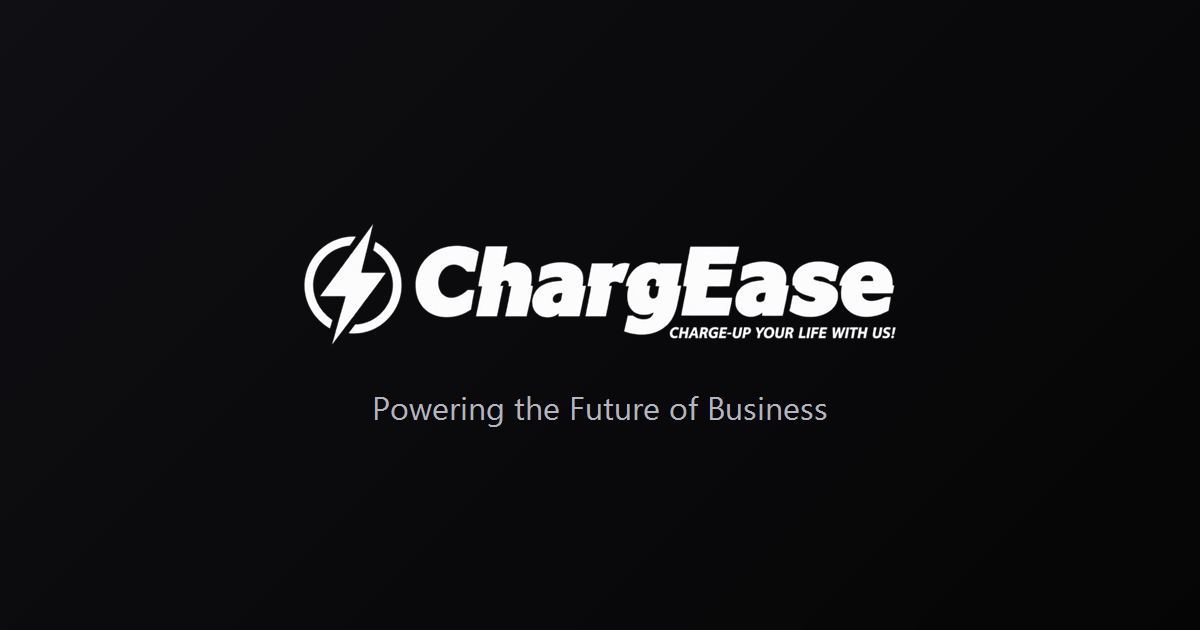
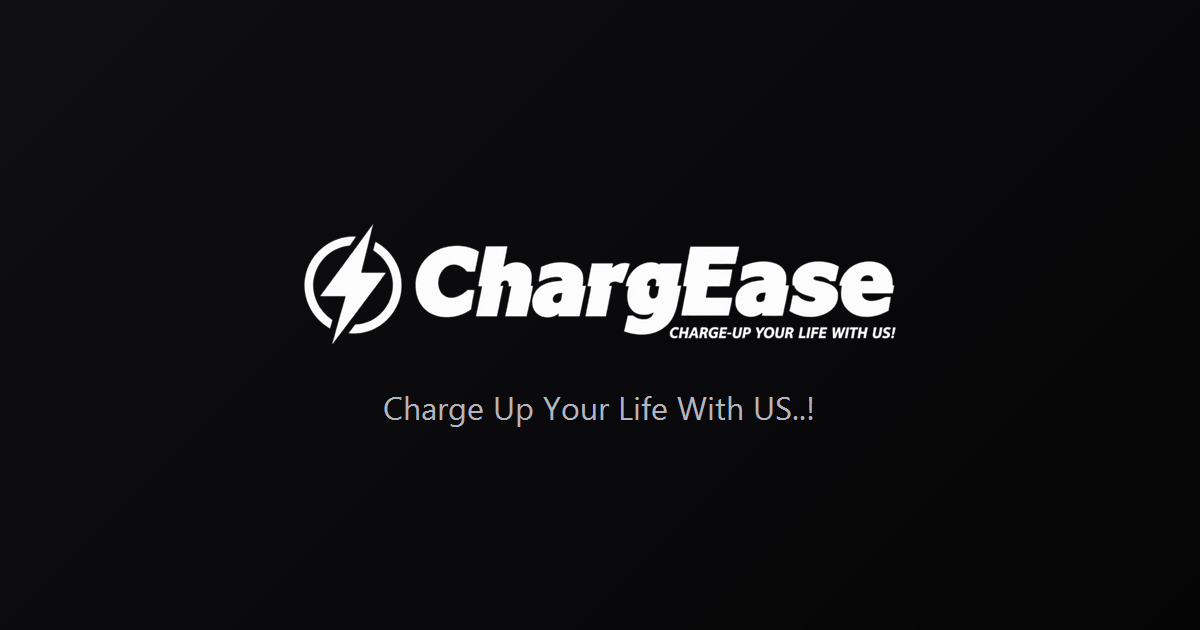
Update tagline to Charge Up Your Life With US..! across layout, footer, og-image, and admin

Changed region(s): [[0.3083, 0.6333, 0.7092, 0.6937]]

diff --git a/frontend/src/app/layout.tsx b/frontend/src/app/layout.tsx
@@ -9,7 +9,7 @@ const inter = Inter({ subsets: ['latin'], variable: '--font-inter', display: 'sw
 
 export const metadata: Metadata = {
   metadataBase: new URL('https://www.chargease.in'),
-  title: 'ChargEase — Powering the Future of Business',
+  title: 'ChargEase — Charge Up Your Life With US..!',
   description: 'ChargEase delivers cutting-edge solutions that transform industries and accelerate growth through innovation, precision, and excellence.',
   keywords: ['ChargEase', 'business solutions', 'consulting', 'innovation', 'digital transformation'],
   authors: [{ name: 'ChargEase' }],
@@ -17,7 +17,7 @@ export const metadata: Metadata = {
     type: 'website',
     locale: 'en_US',
     url: 'https://www.chargease.in',
-    title: 'ChargEase — Powering the Future of Business',
+    title: 'ChargEase — Charge Up Your Life With US..!',
     description: 'ChargEase delivers cutting-edge solutions that transform industries and accelerate growth.',
     siteName: 'ChargEase',
     images: [
@@ -25,13 +25,13 @@ export const metadata: Metadata = {
         url: '/og-image.png',
         width: 1200,
         height: 630,
-        alt: 'ChargEase — Powering the Future of Business',
+        alt: 'ChargEase — Charge Up Your Life With US..!',
       },
     ],
   },
   twitter: {
     card: 'summary_large_image',
-    title: 'ChargEase — Powering the Future of Business',
+    title: 'ChargEase — Charge Up Your Life With US..!',
     description: 'ChargEase delivers cutting-edge solutions that transform industries.',
     images: ['/og-image.png'],
   },

diff --git a/backend/seed.js b/backend/seed.js
@@ -37,7 +37,7 @@ const seed = async () => {
   // Site Settings
   await SiteSettings.create({
     companyName: 'ChargEase',
-    companyTagline: 'Powering the Future of Business',
+    companyTagline: 'Charge Up Your Life With US..!',
     companyDescription: 'ChargEase delivers cutting-edge solutions that transform industries and accelerate growth through innovation, precision, and excellence.',
     contact: {
       email: 'info@chargeease.com',
@@ -61,7 +61,7 @@ const seed = async () => {
   // Hero
   await HeroSection.create({
     companyName: 'ChargEase',
-    tagline: 'Powering the Future of Business',
+    tagline: 'Charge Up Your Life With US..!',
     introduction: 'We deliver cutting-edge solutions that transform industries and accelerate growth through innovation, precision, and excellence.',
     primaryCTA: { label: 'Explore Our Work', link: '#projects' },
     secondaryCTA: { label: 'Get in Touch', link: '#contact' },

diff --git a/frontend/src/app/admin/sections/hero/page.tsx b/frontend/src/app/admin/sections/hero/page.tsx
@@ -118,7 +118,7 @@ const BG_OPTIONS = [
 export default function HeroSectionEditorPage() {
   const [data, setData] = useState<HeroData>({
     companyName: 'ChargEase',
-    tagline: 'Powering the Future of Business',
+    tagline: 'Charge Up Your Life With US..!',
     introduction: 'We deliver cutting-edge solutions that transform industries and accelerate growth through innovation, precision, and excellence.',
     primaryCTA: { label: 'Our Projects', link: '#projects' },
     secondaryCTA: { label: 'Get in Touch', link: '#contact' },
@@ -264,7 +264,7 @@ export default function HeroSectionEditorPage() {
               required
               value={data.tagline}
               onChange={e => update({ tagline: e.target.value })}
-              placeholder="e.g. Powering the Future of Business"
+              placeholder="e.g. Charge Up Your Life With US..!"
               style={inputStyle}
             />
           </Field>

diff --git a/frontend/src/app/admin/settings/page.tsx b/frontend/src/app/admin/settings/page.tsx
@@ -10,7 +10,7 @@ import { Save, Settings, MapPin, Share2, Search, Menu as MenuIcon, LayoutTemplat
 export default function SettingsManagerPage() {
   const [activeTab, setActiveTab] = useState<'general' | 'contact' | 'social' | 'seo' | 'navigation' | 'footer'>('general');
   const [data, setData] = useState<Partial<SiteSettings>>({
-    companyName: 'ChargEase', companyTagline: 'Powering the Future of Business',
+    companyName: 'ChargEase', companyTagline: 'Charge Up Your Life With US..!',
     companyDescription: 'Leading corporate enterprise solutions provider.',
     contact: { email: 'info@chargeease.com', phone: '+1 (555) 000-0000', address: '100 Innovation Drive, Suite 500\nNew York, NY 10001', officeHours: 'Monday – Friday\n9:00 AM – 6:00 PM EST', googleMapsEmbed: '' },
     social: { linkedin: '#', twitter: '#', instagram: '#', facebook: '#', youtube: '#' },

diff --git a/backend/src/models/Sections.js b/backend/src/models/Sections.js
@@ -3,7 +3,7 @@ const mongoose = require('mongoose');
 const heroSchema = new mongoose.Schema(
   {
     companyName: { type: String, default: 'ChargEase' },
-    tagline: { type: String, default: 'Powering the Future of Business' },
+    tagline: { type: String, default: 'Charge Up Your Life With US..!' },
     introduction: { type: String, default: 'We deliver cutting-edge solutions that transform industries and accelerate growth through innovation, precision, and excellence.' },
     primaryCTA: { label: String, link: String },
     secondaryCTA: { label: String, link: String },

diff --git a/backend/src/models/SiteSettings.js b/backend/src/models/SiteSettings.js
@@ -3,7 +3,7 @@ const mongoose = require('mongoose');
 const siteSettingsSchema = new mongoose.Schema(
   {
     companyName: { type: String, default: 'ChargEase' },
-    companyTagline: { type: String, default: 'Powering the Future of Business' },
+    companyTagline: { type: String, default: 'Charge Up Your Life With US..!' },
     companyDescription: { type: String, default: '' },
     logo: { type: String, default: null },
     favicon: { type: String, default: null },

diff --git a/frontend/src/components/Footer.tsx b/frontend/src/components/Footer.tsx
@@ -152,7 +152,7 @@ export default function Footer({ settings }: { settings?: SiteSettings }) {
               textTransform: 'uppercase',
               color: 'var(--gray-600)',
             }}>
-              {settings?.companyTagline || 'Powering Business Excellence'}
+              {settings?.companyTagline || 'Charge Up Your Life With US..!'}
             </p>
           </motion.div>
 
